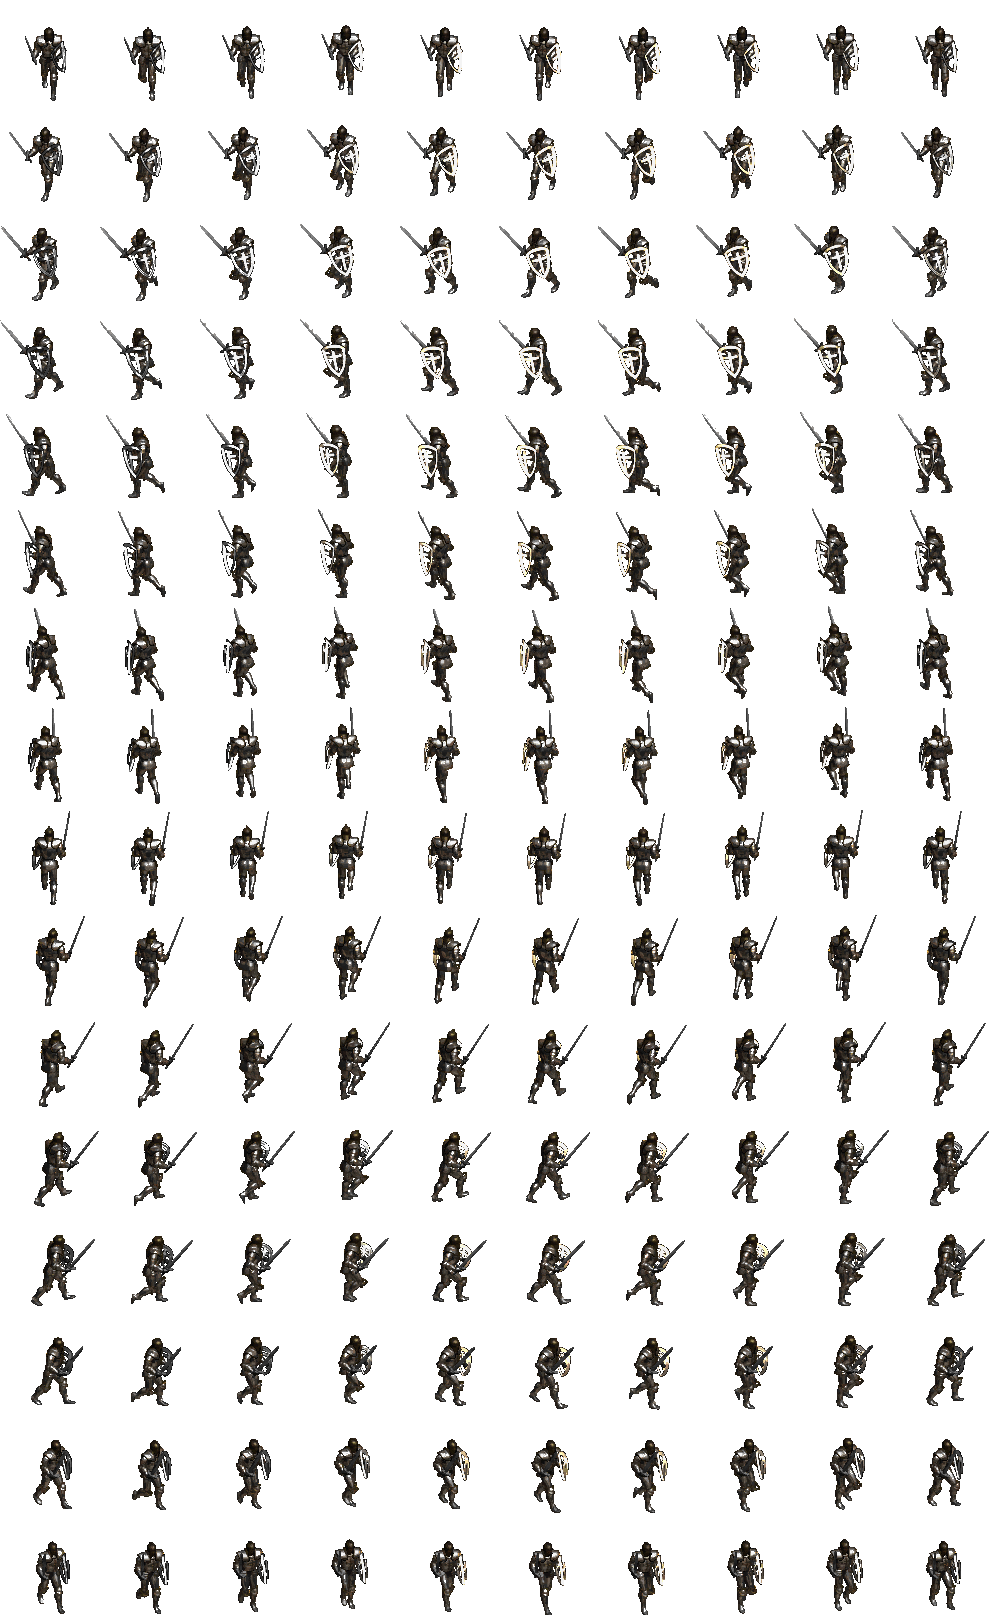
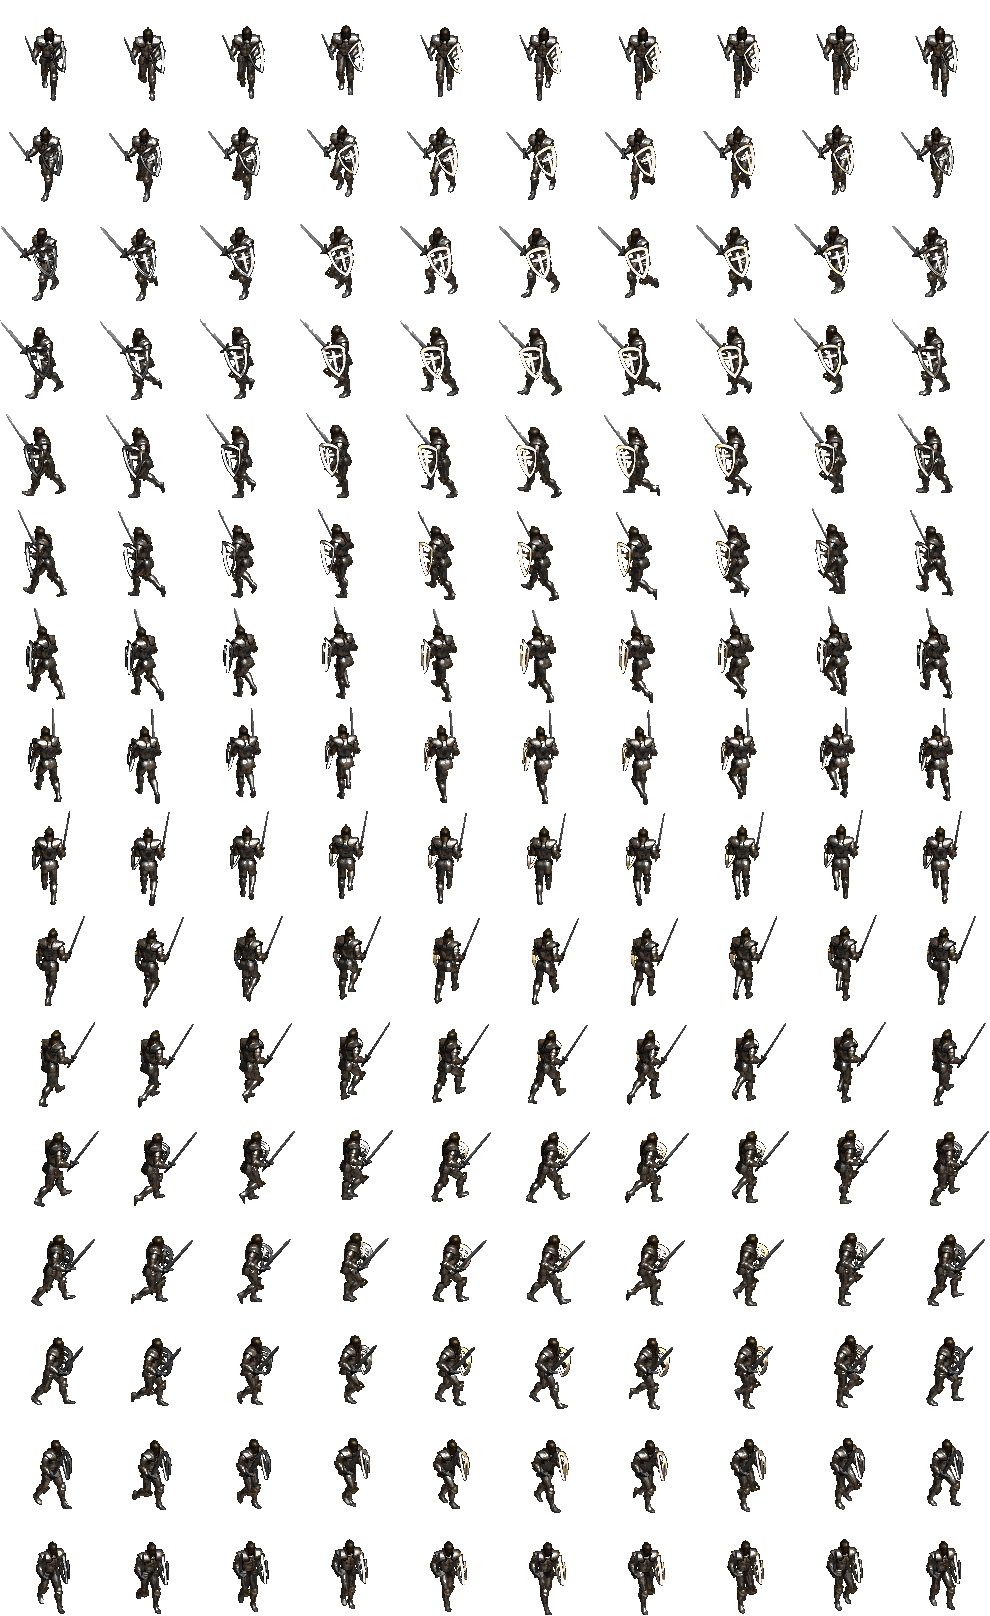
imp ready logic

diff --git a/src/Enemy.c b/src/Enemy.c
@@ -11,42 +11,45 @@
 
 static void move_enemy(Sprite* sprite, Enemy* this)
 {
-    int speed         = 1;
-    int direction     = this->angle;
-    sprite->row_index = (this->angle * sprite->rows) + sprite->col_index;
-    switch (direction) {
-    case 0:
-    case 8:
-        (*sprite->y_origin) += speed;
-        break;
-    case 1:
-        (*sprite->x_origin) -= speed;
-        (*sprite->y_origin) += speed;
-        break;
-    case 2:
-        (*sprite->x_origin) -= speed;
-        break;
-    case 3:
-        (*sprite->x_origin) -= speed;
-        (*sprite->y_origin) -= speed;
-        break;
-    case 4:
-        (*sprite->y_origin) -= speed;
-        break;
-    case 5:
-        (*sprite->x_origin) += speed;
-        (*sprite->y_origin) -= speed;
-        break;
-    case 6:
-        (*sprite->x_origin) += speed;
-        break;
-    case 7:
-        (*sprite->x_origin) += speed;
-        (*sprite->y_origin) += speed;
-        break;
+    int speed     = 1;
+    int direction = this->angle;
+    if (this->cur_sprite == ATTACK) {
 
-    default:
-        break;
+        sprite->row_index = (this->angle * sprite->rows) + sprite->col_index;
+        switch (direction) {
+        case 0:
+        case 8:
+            (*sprite->y_origin) += speed;
+            break;
+        case 1:
+            (*sprite->x_origin) -= speed;
+            (*sprite->y_origin) += speed;
+            break;
+        case 2:
+            (*sprite->x_origin) -= speed;
+            break;
+        case 3:
+            (*sprite->x_origin) -= speed;
+            (*sprite->y_origin) -= speed;
+            break;
+        case 4:
+            (*sprite->y_origin) -= speed;
+            break;
+        case 5:
+            (*sprite->x_origin) += speed;
+            (*sprite->y_origin) -= speed;
+            break;
+        case 6:
+            (*sprite->x_origin) += speed;
+            break;
+        case 7:
+            (*sprite->x_origin) += speed;
+            (*sprite->y_origin) += speed;
+            break;
+
+        default:
+            break;
+        }
     }
 }
 static void set_array_null(Sprite** sprites, int num)
@@ -92,7 +95,7 @@ static char* _logic(void* obj)
     int ref = 0;
 
     if (!COLLIDING && !this->in_action) {
-        this->cur_sprite = WALK;
+        this->cur_sprite = STAND;
         current          = this->sprites[this->cur_sprite];
         this->angle      = (int)(get_degree_angle(get_radian_angle(HERO_WIDTH, HERO_HEIGHT, current->rect.x + (current->rect.w / 2), current->rect.y + (current->rect.h / 2))) / 45.0f);
         move_enemy(current, this);

diff --git a/src/Hero.c b/src/Hero.c
@@ -27,22 +27,29 @@ static int check_hero_state(Hero* this)
     if (IN_ACTION) {
         return this->cur_sprite;
     }
+    if (KEY == R && !IN_ACTION) {
+        this->ready = !this->ready;
+    }
     if (KEY == W) {
         MOUSE_ANGLE = get_mouse_angle(this);
+        if (this->ready)
+            return WALK_RDY_H;
         return WALK_H;
     } else if (KEY == A) {
-        this->in_action = 1;
-        MOUSE_ANGLE     = get_mouse_angle(this);
+        IN_ACTION   = 1;
+        MOUSE_ANGLE = get_mouse_angle(this);
         return ATTACK_ONE_H;
     } else if (KEY == D) {
-        this->in_action = 1;
-        MOUSE_ANGLE     = get_mouse_angle(this);
+        IN_ACTION   = 1;
+        MOUSE_ANGLE = get_mouse_angle(this);
         return ATTACK_TWO_H;
     } else if (KEY == S) {
         MOUSE_ANGLE = get_mouse_angle(this);
         return RUN_H;
     } else if (KEY == NON) {
         MOUSE_ANGLE = get_mouse_angle(this);
+        if (this->ready)
+            return STAND_RDY_H;
         return STAND_H;
     }
     MOUSE_ANGLE = get_mouse_angle(this);
@@ -132,6 +139,7 @@ Hero* CREATE_HERO(char* key, int num_sprite)
     this->key       = key;
     this->moving    = 0;
     this->in_action = 0;
+    this->ready     = 0;
 
     this->sprites = malloc(sizeof(Sprite*) * this->num_sprite);
     set_array_null(this->sprites, this->num_sprite);

diff --git a/src/Assets.c b/src/Assets.c
@@ -92,8 +92,8 @@ Table_Container add_assets(Logic_Table* t_l, Render_Table* t_r, SDL_Renderer* re
     Sprite* hero_run       = CREATE_SPRITE(renderer, ASSET_STRINGS[HERO_RUN_PATH], 8, 16, hero_x, hero_y, 94, 103, MOVEMENT, HERO);
     Sprite* hero_attack_1  = CREATE_SPRITE(renderer, ASSET_STRINGS[HERO_ATTACK_1_PATH], 15, 16, hero_x, hero_y, 180, 135, ACTION, HERO);
     Sprite* hero_attack_2  = CREATE_SPRITE(renderer, ASSET_STRINGS[HERO_ATTACK_2_PATH], 12, 16, hero_x, hero_y, 171, 123, ACTION, HERO);
-    Sprite* hero_rdy_stand = CREATE_SPRITE(renderer, ASSET_STRINGS[HERO_READY_STAND_PATH], 8, 16, hero_x, hero_y, 640, 1712, MOVEMENT, HERO);
-    Sprite* hero_rdy_walk  = CREATE_SPRITE(renderer, ASSET_STRINGS[HERO_READY_WALK_PATH], 8, 16, hero_x, hero_y, 992, 1616, MOVEMENT, HERO);
+    Sprite* hero_rdy_stand = CREATE_SPRITE(renderer, ASSET_STRINGS[HERO_READY_STAND_PATH], 8, 16, hero_x, hero_y, 80, 107, MOVEMENT, HERO);
+    Sprite* hero_rdy_walk  = CREATE_SPRITE(renderer, ASSET_STRINGS[HERO_READY_WALK_PATH], 10, 16, hero_x, hero_y, 99, 101, MOVEMENT, HERO);
 
     hero->add_sprite(hero, hero_stand, STAND_H);
     hero->add_sprite(hero, hero_walk, WALK_H);

diff --git a/src/Input.c b/src/Input.c
@@ -36,6 +36,9 @@ int input_handler(void* data)
             case SDL_SCANCODE_L:
                 KEY = L;
                 continue;
+            case SDL_SCANCODE_R:
+                KEY = R;
+                continue;
             default:
                 break;
             }
@@ -67,6 +70,9 @@ int input_handler(void* data)
             case SDL_SCANCODE_F:
                 FULLSCREEN_ON = !(FULLSCREEN_ON);
                 KEY           = NON;
+                continue;
+            case SDL_SCANCODE_R:
+                KEY = NON;
                 continue;
             default:
                 break;

diff --git a/src/Header.h b/src/Header.h
@@ -69,15 +69,16 @@ int HIT_ANGLE;
  *  - if(KEY_VALUE[S])
  */
 enum KEYS {
-    S = SDL_SCANCODE_S,
-    W = SDL_SCANCODE_W,
-    A = SDL_SCANCODE_A,
-    D = SDL_SCANCODE_D,
-    J = SDL_SCANCODE_J,
-    L = SDL_SCANCODE_L,
-    O = SDL_SCANCODE_O,
-    F = SDL_SCANCODE_F,
-    NON
+    S   = SDL_SCANCODE_S,
+    W   = SDL_SCANCODE_W,
+    A   = SDL_SCANCODE_A,
+    D   = SDL_SCANCODE_D,
+    J   = SDL_SCANCODE_J,
+    L   = SDL_SCANCODE_L,
+    O   = SDL_SCANCODE_O,
+    F   = SDL_SCANCODE_F,
+    R   = SDL_SCANCODE_R,
+    NON = 0
 } KEY;
 
 enum SPRITE_STATE_TYPES {

diff --git a/src/Hero.h b/src/Hero.h
@@ -20,6 +20,7 @@ typedef struct _Hero {
     int moving;
     int *x, *y;
     int in_action;
+    int ready;
 
     char* key;
 } Hero;
